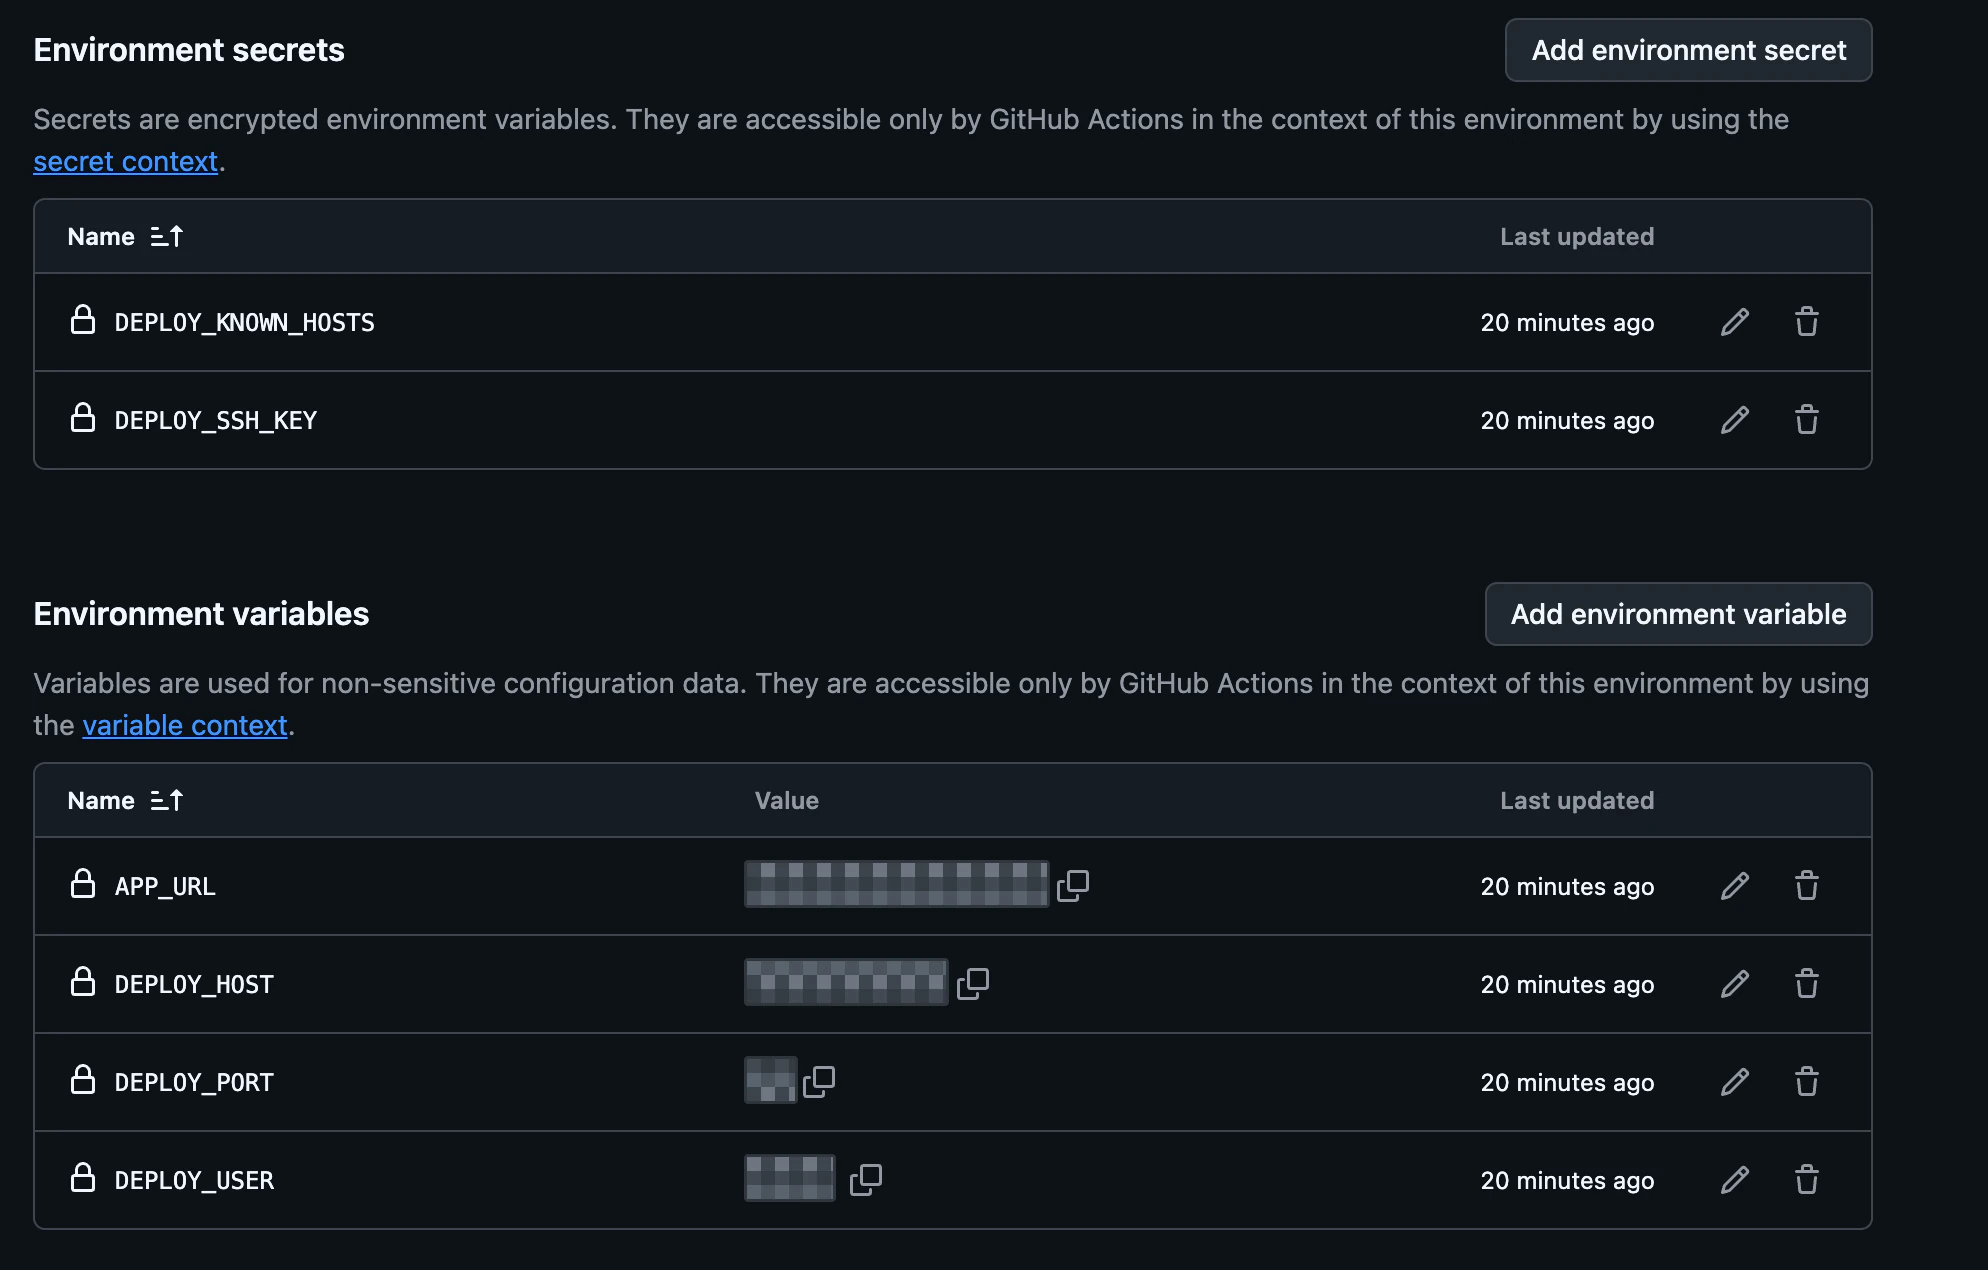
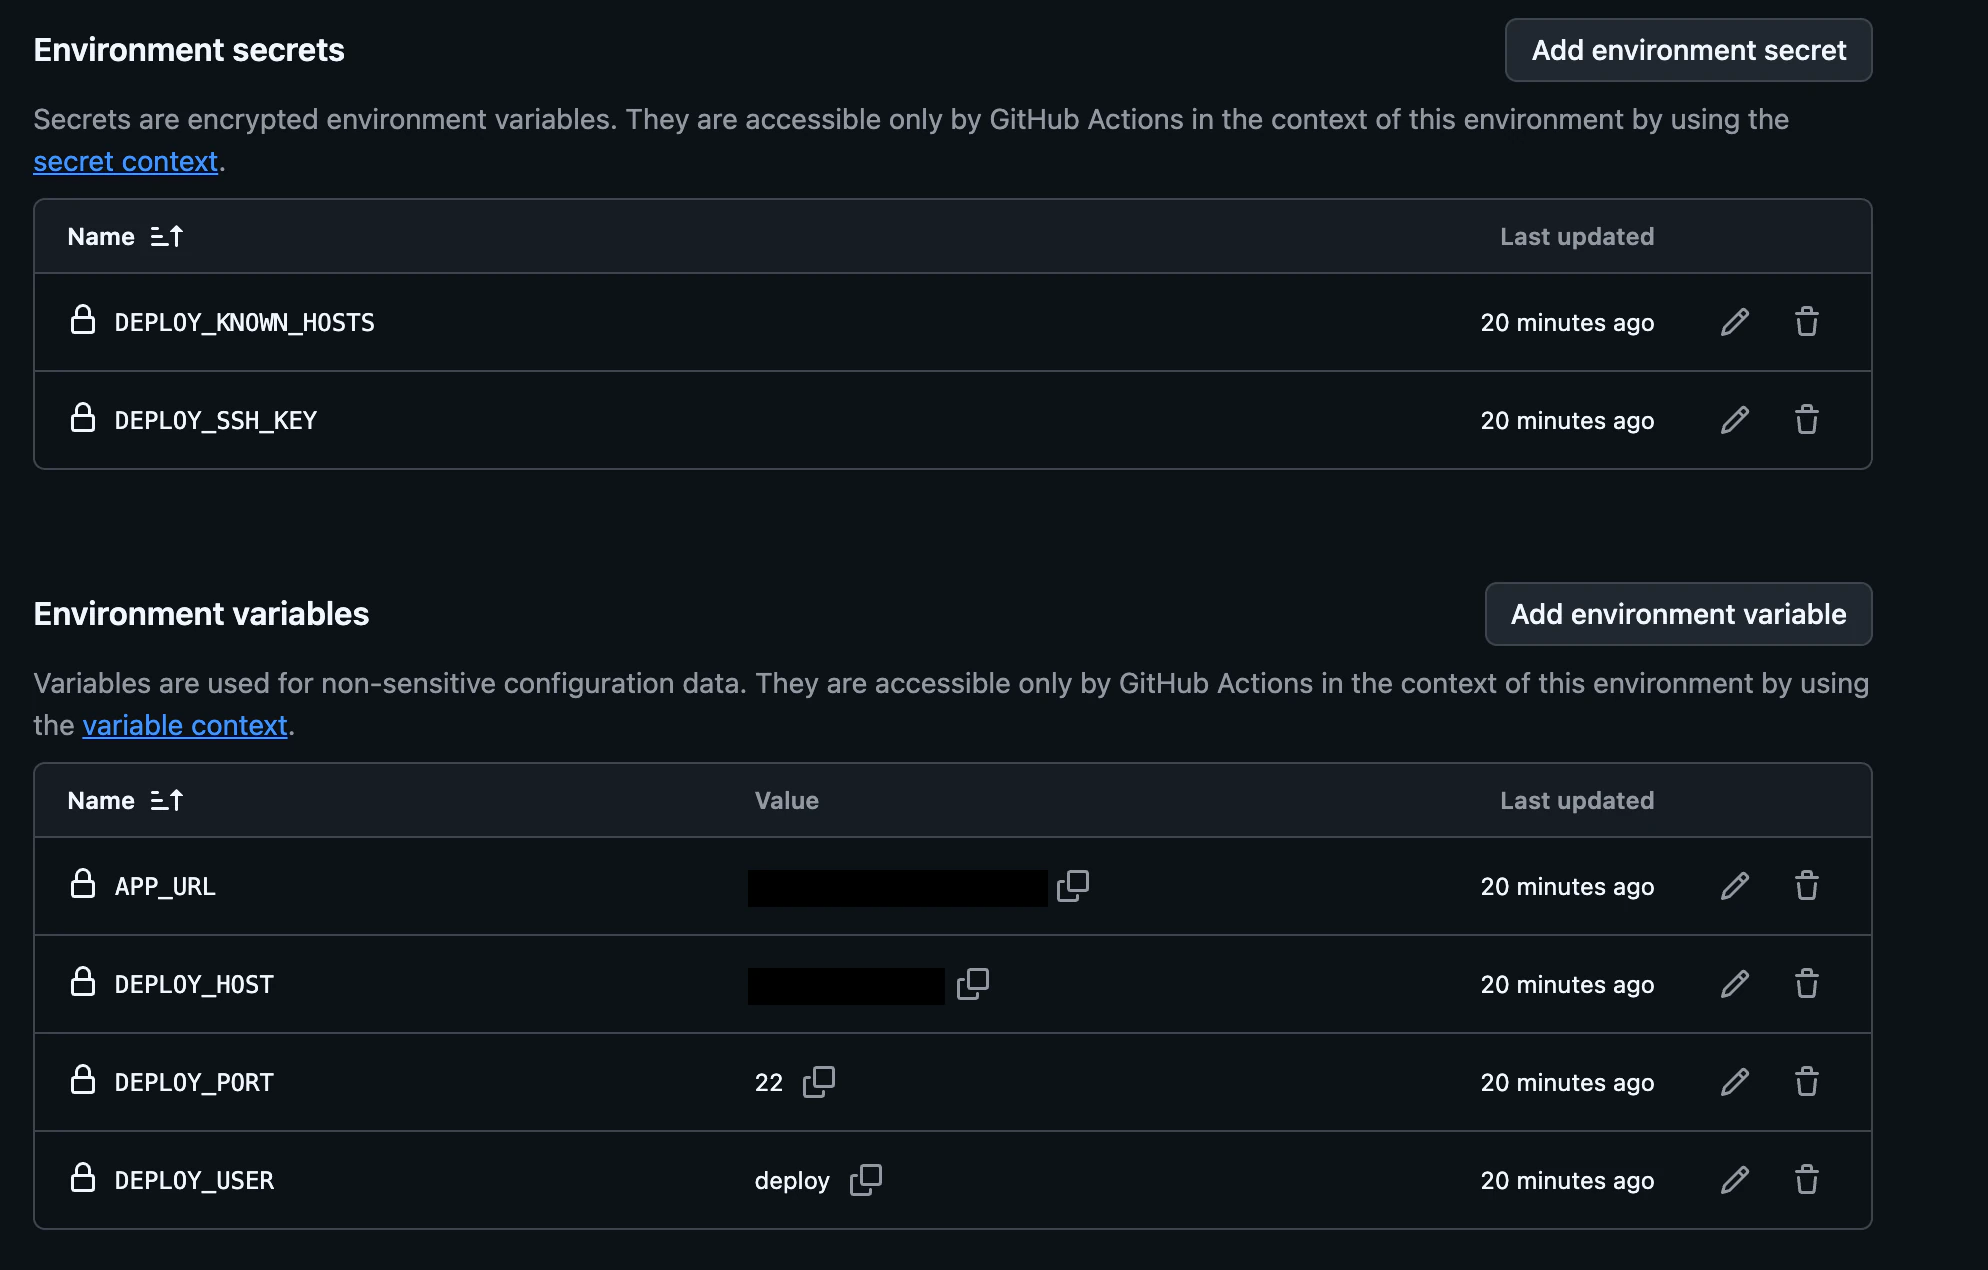
Posts/cicd pipeline with GitHub actions ghcr docker (#10)
* posts: cicd-pipeline-with-github-actions-ghcr-docker.

* posts: cicd-pipeline-with-github-actions-ghcr-docker.

* posts: cicd-pipeline-with-github-actions-ghcr-docker.

* posts: cicd-pipeline-with-github-actions-ghcr-docker.

* posts: cicd-pipeline-with-github-actions-ghcr-docker.

* posts: cicd-pipeline-with-github-actions-ghcr-docker.

* posts: cicd-pipeline-with-github-actions-ghcr-docker.

* posts: cicd-pipeline-with-github-actions-ghcr-docker.

* posts: cicd-pipeline-with-github-actions-ghcr-docker.

* posts: cicd-pipeline-with-github-actions-ghcr-docker.

* posts: cicd-pipeline-with-github-actions-ghcr-docker.

* posts: cicd-pipeline-with-github-actions-ghcr-docker.

* posts: cicd-pipeline-with-github-actions-ghcr-docker.

Changed region(s): [[0.3742, 0.6756, 0.5302, 0.7984], [0.3742, 0.8291, 0.4366, 0.952]]

diff --git a/src/content/posts/cicd-pipeline-with-github-actions-ghcr-docker.md b/src/content/posts/cicd-pipeline-with-github-actions-ghcr-docker.md
@@ -628,67 +628,30 @@ jobs:
 
 ## 10. 首次部署与验证
 
-本节使用 GitHub CLI（`gh`）创建和合并 Pull Request、查看 Actions 运行并批准首次部署。首次使用时，按照 [GitHub CLI 官方安装说明](https://github.com/cli/cli#installation) 为当前操作系统完成安装，然后通过浏览器登录 GitHub 账号：
+把 `Dockerfile`、`.dockerignore` 和 `.github/workflows/pipeline.yml` 提交并推送到特性分支。部署脚本和包装脚本已在前文直接安装到部署主机，不属于本段需要提交的仓库文件。
+
+打开应用仓库的 **Pull requests** 页面，点击 **New pull request**。将 `base` 设为 `main`，将 `compare` 设为刚推送的特性分支，然后点击 **Create pull request**。需要先创建草稿时，展开创建按钮旁的下拉菜单并选择 **Create draft pull request**。
+
+Pull Request 创建后，在页面中等待 `Test and build` 检查通过。草稿准备就绪后点击 **Ready for review**，再点击 **Merge pull request**，选择 **Squash and merge** 并确认合并。
+
+合并后打开仓库的 **Actions** 页面，选择 **CI/CD** 工作流，再打开由 `main` 分支最新提交触发的运行记录。`Test and build` 成功后会依次执行 `Publish image` 和 `Deploy production`；等待本次运行完成，并确认三个 Job 均成功。
+
+![GitHub Actions 的 CI/CD 工作流显示 Test and build、Publish image 和 Deploy production 三个 Job 均成功](/uploads/2026/07/successful-github-actions-workflow.webp)
+
+可以使用如下命令在部署主机检查容器部署情况：
 
 ```bash
-gh auth login --web \
-  --scopes repo,workflow,read:packages
+docker ps -a
 ```
 
-把 `Dockerfile`、`.dockerignore` 和 `.github/workflows/pipeline.yml` 提交到特性分支。部署脚本和包装脚本已在前文直接安装到部署主机，不属于本段需要提交的仓库文件。创建 PR、等待 CI 并合并：
-
-```bash
-gh pr create --draft --base main \
-  --title "Add secure GitHub Actions CI/CD pipeline"
-gh pr checks --watch
-gh pr ready
-gh pr merge --squash
-```
-
-`Test and build` Job 成功后，合并触发 `publish`。首次部署在 reviewer 处暂停时，通过 API 批准对应 Environment：
-
-```bash
-RUN_ID="$(gh run list --workflow pipeline.yml \
-  --branch main --limit 1 --json databaseId \
-  --jq '.[0].databaseId')"
-
-ENVIRONMENT_ID="$(gh api \
-  "repos/{owner}/{repo}/actions/runs/$RUN_ID/pending_deployments" \
-  --jq '.[0].environment.id')"
-
-gh api --method POST \
-  "repos/{owner}/{repo}/actions/runs/$RUN_ID/pending_deployments" \
-  -F "environment_ids[]=$ENVIRONMENT_ID" \
-  -f state=approved \
-  -f comment="CI, GHCR visibility and deployment prerequisites verified"
-
-gh run watch "$RUN_ID" --exit-status
-```
-
-在部署主机切换到 `deploy` 的登录 shell 后查看状态，完成后返回管理员账户：
-
-```bash
-sudo -iu deploy
-cd /opt/simple-clock-app
-docker compose ps -a
-docker compose images
-curl --fail --show-error http://127.0.0.1:7100/
-cat .env
-exit
-```
-
-`docker compose ps -a` 的输出示例如下：
+`docker compose ps -a` 此时应包含 `simple-clock-app` 正在运行的容器：
 
 ```text
-NAME                     IMAGE                                                                                                         COMMAND                                          SERVICE   CREATED      STATUS                PORTS
-simple-clock-app-app-1   ghcr.io/janwee-sha/simple-clock-app@sha256:c6617a9b2952ed553d05f596458e7e38b9c7414d7089e4c2848f56712fc9bb95   "/docker-entrypoint.sh nginx -g 'daemon off;'"   app       2 days ago   Up 2 days (healthy)   127.0.0.1:7100->80/tcp
+NAME                     IMAGE                                                                                                         COMMAND                                          SERVICE   CREATED          STATUS                    PORTS
+simple-clock-app-app-1   ghcr.io/janwee-sha/simple-clock-app@sha256:cea93970f452047674482aac3dc661845a184dd80a6f37c1df4f44b53d6fd1bf   "/docker-entrypoint.sh nginx -g 'daemon off;'"   app       30 minutes ago   Up 30 minutes (healthy)   127.0.0.1:7100->80/tcp
 ```
 
-`STATUS` 中的 `Up 2 days (healthy)` 表明容器正在运行且已经通过健康检查，`PORTS` 中的 `127.0.0.1:7100->80/tcp` 则表明部署主机的回环地址端口 `7100` 已映射到容器端口 `80`。
-
 `.env` 中应该记录带 digest 的完整镜像引用，而不是 `main` 或 `latest` 标签。也可以在 GitHub 仓库的“Actions”页面查看构建日志，在“Deployments”页面查看生产环境和部署 URL。
-
-如果第一次由工作流发布镜像时出现 `permission_denied: write_package`，检查同名 GHCR Package 是否曾由命令行创建但没有关联当前仓库。在 Package 设置中连接仓库并授予 GitHub Actions 写入权限后重试。
 
 ## 11. 验证自动回滚
 
@@ -754,6 +717,3 @@ exit
 13.  simple-clock-app 示例项目：[https://github.com/janwee-sha/simple-clock-app](https://github.com/janwee-sha/simple-clock-app)
 14.  setup-node Action：[https://github.com/actions/setup-node](https://github.com/actions/setup-node)
 15.  Nginx Docker 官方镜像：[https://hub.docker.com/_/nginx](https://hub.docker.com/_/nginx)
-16.  GitHub CLI 手册：[https://cli.github.com/manual/](https://cli.github.com/manual/)
-17.  GitHub CLI 安装说明：[https://github.com/cli/cli#installation](https://github.com/cli/cli#installation)
-18.  `gh auth login` 命令：[https://cli.github.com/manual/gh_auth_login](https://cli.github.com/manual/gh_auth_login)
